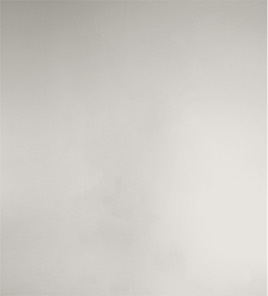
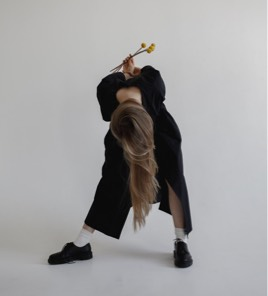
up

diff --git a/components/index/home.vue b/components/index/home.vue
@@ -9,8 +9,11 @@
     <no-ssr>
       <v-bottom-layer ref="bottomLayer" aria-hidden="true"/>
     </no-ssr>
-    <div class="img-container">
-      <img src="" data-src="/images/home/zhenya-bg.jpg" alt="Zhenya Rynzhuk" ref="imgBack" width="1070" height="1184" :class="{'js-fs-on-mobile': isPhone}">
+    <div class="img-container" ref="imgBack">
+      <img src="" data-src="/images/home/zhenya-bg.jpg" alt="Zhenya Rynzhuk" width="1070" height="1184" :class="{'js-fs-on-mobile': isPhone}">
+      <div class="hover">
+        <img v-for="(n, i) in totalHover" v-show="isHover && currentHover === i" :key="i" :data-src="`/images/home/${i}.jpg`" alt="Zhenya Rynzhuk" width="1070" height="1184" :class="[`mom-${i}`, {'js-fs-on-mobile': isPhone}]">
+      </div>
     </div>
     <no-ssr>
       <v-circles :circles="homeCircles[1]" :id="1"  ref="circles-1"  aria-hidden="true"/>
@@ -28,8 +31,8 @@
         </div>
       </no-ssr>
     </h1>
-    <div class="img-container">
-      <img src="" data-src="/images/home/zhenya-front.png" alt="Zhenya Rynzhuk" ref="imgFront" width="1070" height="1184" :class="{'js-fs-on-mobile': isPhone}">
+    <div class="img-container" ref="imgFront" @mouseenter="onMouseEnter" @mouseleave="onMouseLeave">
+      <img src="" data-src="/images/home/zhenya-front.png" alt="Zhenya Rynzhuk" width="1070" height="1184" :class="{'js-fs-on-mobile': isPhone}">
     </div>
     <no-ssr>
       <v-top-layer ref="topLayer"  aria-hidden="true"/>
@@ -67,11 +70,14 @@ import { mapState, mapActions, mapGetters } from 'vuex';
 export default {
   data() {
     return {
+      totalHover: 11,
       isReady: false,
+      isHover: false,
       w:0,
       h:0,
       homeCircles,
-      circlesShown: false
+      circlesShown: false,
+      currentHover: 0
     }
   },
   computed: {
@@ -127,6 +133,20 @@ export default {
         transform(this.$refs.play, {translate3d: [newPosX , newPosY,0]})
       }
     },
+    onMouseEnter() {
+      this.isHover = true
+      this.hoverTimeout = setTimeout(this.incrementHover.bind(this), 120)
+      this.$refs.imgFront.style.opacity = 0
+    },
+    onMouseLeave() {
+      this.isHover = false
+      clearTimeout(this.hoverTimeout)
+    },
+    incrementHover() {
+      this.currentHover++
+      if(this.currentHover === this.totalHover)this.currentHover = 0
+      this.hoverTimeout = setTimeout(this.incrementHover.bind(this), 120)
+    },
     onPlayBtClicked() {
       this.setVideo(true)
       Emitter.emit('VIDEO_BUTTON_CLICKED')
@@ -153,7 +173,10 @@ export default {
         opacity: 1,
         easing: 'easeOutQuad',
         duration: 700,
-        delay: anime.stagger(400, {start: 1000})
+        delay: anime.stagger(400, {start: 1000}),
+        complete: () => {
+          this.$refs.imgFront.style.opacity = 0
+        }
       })
       anime({
         targets: this.skills,
@@ -174,8 +197,6 @@ export default {
     anime.set(this.$refs.play,{opacity: 0})
     anime.set(this.$refs.click,{opacity: 0})
     anime.set(this.skills,{opacity: 0, translateY: '100%'})
-
-
   }
 }
 </script>
@@ -189,12 +210,13 @@ export default {
   overflow hidden
 .img-container
   position absolute
+  width 30vw
   top 50%
   left 50%
-  transform translate(-50%, -50%)
-  width 30vw
   img
     display block
+    position absolute
+    transform translate(-50%, -50%)
     max-width 100%
   +below('l')
     width 50vw

diff --git a/components/common/errorBackround.vue b/components/common/errorBackround.vue
@@ -37,8 +37,6 @@ export default {
           restitution: .5,
           mass:6,
           render: {
-            fillStyle: 'purple',
-            strokeStyle: 'red',
             visible: true,
             sprite: {
               texture: '/images/smiley.png',
@@ -75,7 +73,7 @@ export default {
         height: this.h,
         wireframes: false,
         showAngleIndicator: false,
-        background: 'transparent',
+        background: '#ff0400',
         pixelRatio: window.devicePixelRatio
       }
     });
@@ -89,19 +87,16 @@ export default {
 
     Matter.World.add(this.world, [
       // walls
-      Matter.Bodies.rectangle(this.w / 2, this.h , this.w, 300, { isStatic: true, render:{visible: false} }),
-      Matter.Bodies.rectangle(-50, this.h/2, 100, this.h, { isStatic: true, render:{visible: false} }),
-      Matter.Bodies.rectangle(this.w+50, this.h/2, 100, this.w, { isStatic: true, render:{visible: false} }),
-      Matter.Bodies.rectangle(this.w/2, this.h/2, this.w*.3, this.w*.1, { isStatic: true, render:{visible: false} })
+      Matter.Bodies.rectangle(this.w / 2, this.h , this.w, 300, { isStatic: true, render:{visible: false, fillStyle: '#ff0400'} }),
+      Matter.Bodies.rectangle(-50, this.h/2, 100, this.h, { isStatic: true, render:{visible: false, fillStyle: '#ff0400'} }),
+      Matter.Bodies.rectangle(this.w+50, this.h/2, 100, this.w, { isStatic: true, render:{visible: false, fillStyle: '#ff0400'} }),
+      Matter.Bodies.rectangle(this.w/2, this.h/2, this.w*.3, this.w*.1, { isStatic: true, render:{visible: false, fillStyle: '#ff0400'} })
     ]);
     var attractiveBody = Matter.Bodies.circle(
       this.render.options.width / 2,
       this.render.options.height / 2,
       200, {
         render: {
-          fillStyle: `rgb(240,240,240)`,
-          strokeStyle: `rgb(240,240,240)`,
-          lineWidth: 0,
             visible: false,
             sprite: {
               texture: '/images/smiley.png',
@@ -146,6 +141,7 @@ export default {
 <style lang="stylus" scoped>
 div
   height 100%
+  background #ff0400
   width 100%
   position absolute
   z-index 1

diff --git a/layouts/errorLayout.vue b/layouts/errorLayout.vue
@@ -33,8 +33,8 @@ export default {
   },
   methods:{
      resize(){
-      this.w = ResizeHelper.width()
-      this.h = ResizeHelper.height()
+      const w = ResizeHelper.width()
+      const h = ResizeHelper.height()
       this.$refs.bg.resize(w,h)
     },
   },
@@ -51,7 +51,7 @@ main
   position relative
   height 100%
   width 100%
-  background #000000
+  background #ff0400
   a,span
     font-size 4vw
     text-align center

diff --git a/pages/404.vue b/pages/404.vue
@@ -53,8 +53,9 @@ export default {
 section
   position relative
   overflow hidden
-  background $red
   height 100vh
+  pointer-events none
+  z-index 2
   .svg.bottom
     position absolute
     bottom 0
